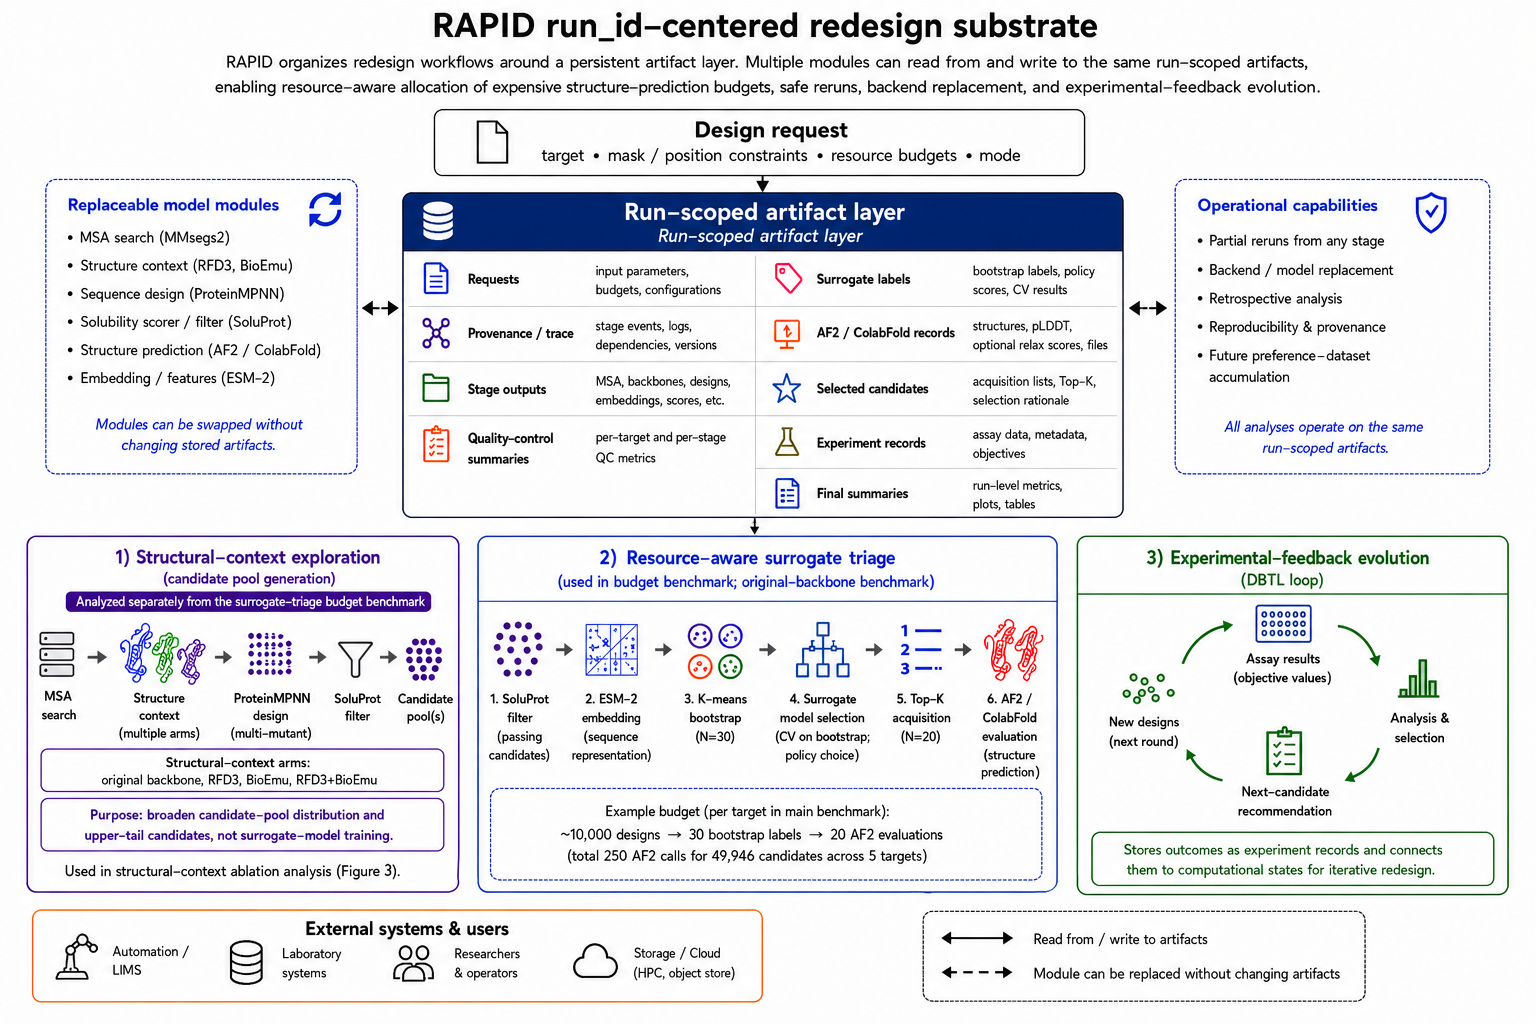
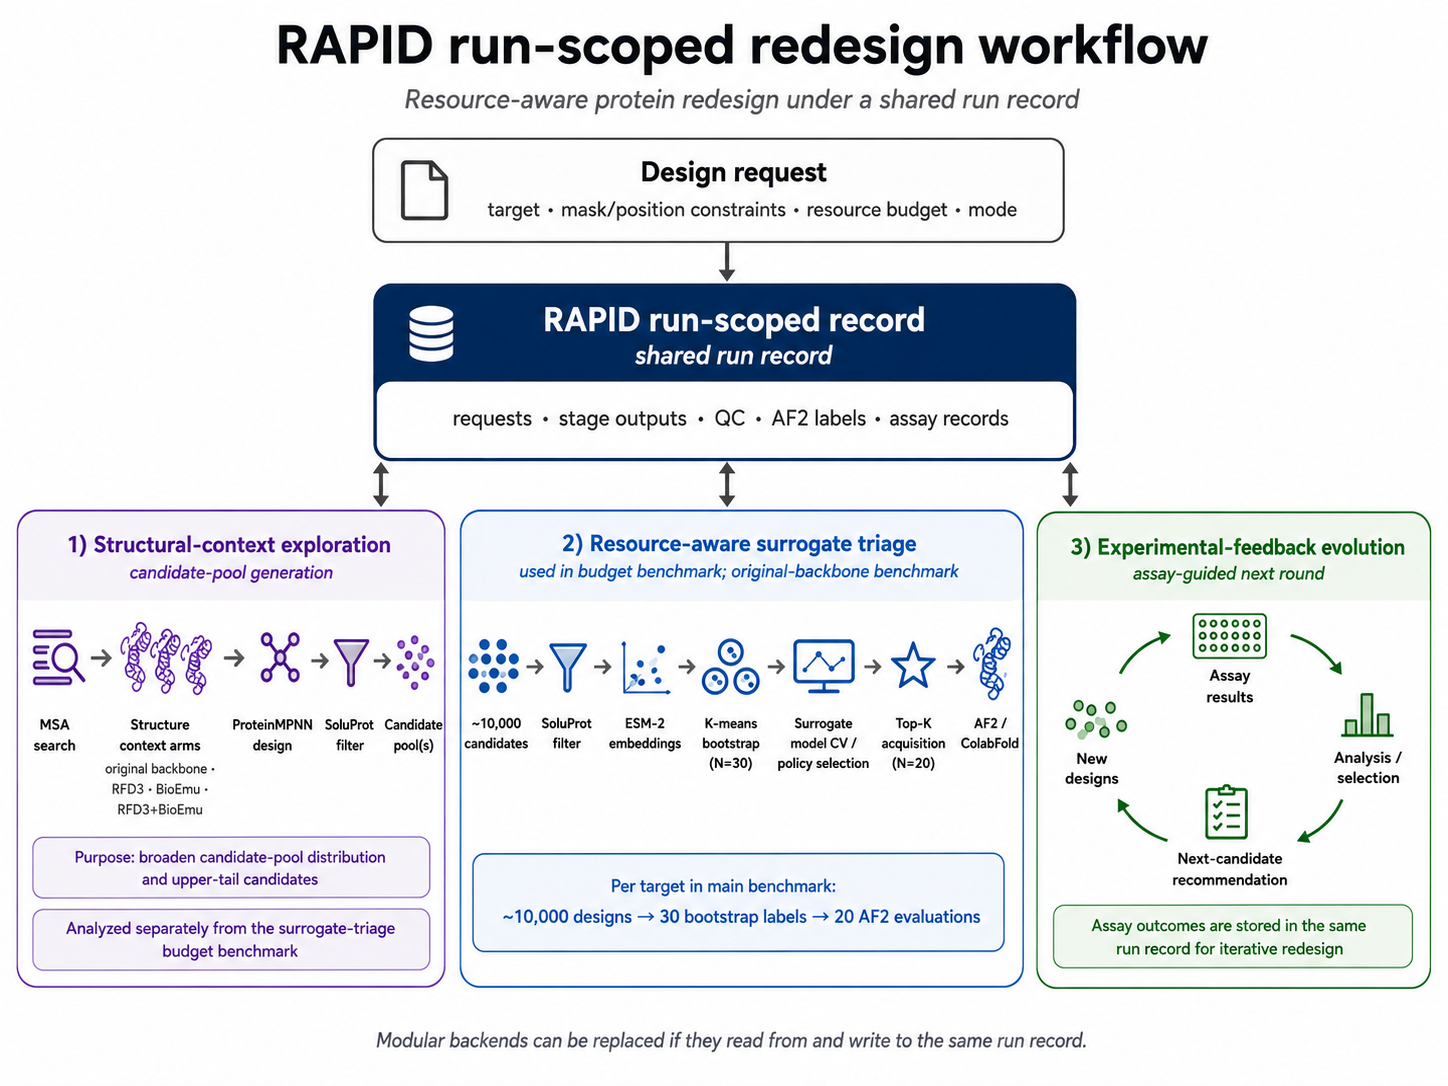
Simplify Figure 1 and rewrite caption for the three-claim workflow
Replace figure1.png with a 3-tier layout (design request -> run-scoped
record -> three numbered subsystems) that is readable at journal column
width. The new figure makes the three paper claims and the per-target
budget callout (~10,000 designs -> 30 bootstrap labels -> 20 AF2 calls)
visible directly. It also surfaces the "Analyzed separately from the
surrogate-triage budget benchmark" disclaimer used in section 3.3, and
the "modular backends can be replaced" message that was previously
spread across multiple sub-panels.

Caption rewritten to match the new visual structure while keeping the
artifact-contract framing. manuscript.docx files re-rendered with
pandoc. Old figure removed (history retains the previous version).

Changed region(s): [[0.0, 0.0, 0.9945, 0.9688]]

diff --git a/docs/manuscript.md b/docs/manuscript.md
@@ -24,9 +24,9 @@ RAPID represents each redesign campaign as a run-scoped orchestration record rat
 
 Each run stores its typed request, stage outputs, status records, trace events, quality-control summaries, experiment records, and final summaries under a stable run identifier. Downstream analyses consume shared artifact fields rather than model-specific folders, which is the basis for partial reruns, retrospective benchmark reconstruction, and backend replacement. The local browser interface exposes the same run identifiers and request fields as the backend, but the scientific claims are based on the stored artifacts rather than on the interface itself.
 
-![RAPID run_id-centered redesign substrate](figures/benchmark/figure1.png)
+![RAPID run-scoped redesign workflow](figures/benchmark/figure1.png)
 
-*Figure 1. RAPID run_id-centered redesign substrate. The linear stage order is only one operational view. The central contribution is the run-scoped artifact contract, which preserves requests, provenance records, stage outputs, surrogate labels, AF2 evaluations, experiment records, and final summaries under stable run identifiers. Structural-context exploration, resource-aware surrogate triage, and experimental-feedback evolution all consume and update the same reusable artifact layer. This architecture supports safe reruns, retrospective analysis, backend replacement, and future preference-dataset accumulation without treating RAPID as a simple linear wrapper over model calls.*
+*Figure 1. RAPID run-scoped redesign workflow. A typed design request — target, mask and position constraints, resource budget, and mode — is written into the shared run-scoped record, which stores requests, stage outputs, QC summaries, AF2 labels, and assay records under a stable run identifier. The three subsystems consume and update this same record: (1) structural-context exploration generates candidate pools from the original backbone, RFD3, BioEmu, or RFD3+BioEmu via MSA-informed ProteinMPNN design and SoluProt filtering; (2) resource-aware surrogate triage labels a K-means bootstrap with AF2/ColabFold, selects an acquisition policy by cross-validation, and spends the Top-K AF2 budget (per target in the main benchmark: ≈10,000 designs → 30 bootstrap labels → 20 AF2 evaluations); and (3) experimental-feedback evolution loops assay results back into next-candidate recommendation. Structural-context exploration is analysed separately from the surrogate-triage budget benchmark to keep compute allocation distinct from candidate-pool generation. Modular backends can be replaced if they read from and write to the same run record, which is the basis for partial reruns, retrospective benchmark reconstruction, and future preference-dataset accumulation.*
 
 ### 2.2 Surrogate Triage and Experimental Evolution
 

diff --git a/public_release/manuscript/manuscript.md b/public_release/manuscript/manuscript.md
@@ -24,9 +24,9 @@ RAPID represents each redesign campaign as a run-scoped orchestration record rat
 
 Each run stores its typed request, stage outputs, status records, trace events, quality-control summaries, experiment records, and final summaries under a stable run identifier. Downstream analyses consume shared artifact fields rather than model-specific folders, which is the basis for partial reruns, retrospective benchmark reconstruction, and backend replacement. The local browser interface exposes the same run identifiers and request fields as the backend, but the scientific claims are based on the stored artifacts rather than on the interface itself.
 
-![RAPID run_id-centered redesign substrate](figures/benchmark/figure1.png)
+![RAPID run-scoped redesign workflow](figures/benchmark/figure1.png)
 
-*Figure 1. RAPID run_id-centered redesign substrate. The linear stage order is only one operational view. The central contribution is the run-scoped artifact contract, which preserves requests, provenance records, stage outputs, surrogate labels, AF2 evaluations, experiment records, and final summaries under stable run identifiers. Structural-context exploration, resource-aware surrogate triage, and experimental-feedback evolution all consume and update the same reusable artifact layer. This architecture supports safe reruns, retrospective analysis, backend replacement, and future preference-dataset accumulation without treating RAPID as a simple linear wrapper over model calls.*
+*Figure 1. RAPID run-scoped redesign workflow. A typed design request — target, mask and position constraints, resource budget, and mode — is written into the shared run-scoped record, which stores requests, stage outputs, QC summaries, AF2 labels, and assay records under a stable run identifier. The three subsystems consume and update this same record: (1) structural-context exploration generates candidate pools from the original backbone, RFD3, BioEmu, or RFD3+BioEmu via MSA-informed ProteinMPNN design and SoluProt filtering; (2) resource-aware surrogate triage labels a K-means bootstrap with AF2/ColabFold, selects an acquisition policy by cross-validation, and spends the Top-K AF2 budget (per target in the main benchmark: ≈10,000 designs → 30 bootstrap labels → 20 AF2 evaluations); and (3) experimental-feedback evolution loops assay results back into next-candidate recommendation. Structural-context exploration is analysed separately from the surrogate-triage budget benchmark to keep compute allocation distinct from candidate-pool generation. Modular backends can be replaced if they read from and write to the same run record, which is the basis for partial reruns, retrospective benchmark reconstruction, and future preference-dataset accumulation.*
 
 ### 2.2 Surrogate Triage and Experimental Evolution
 